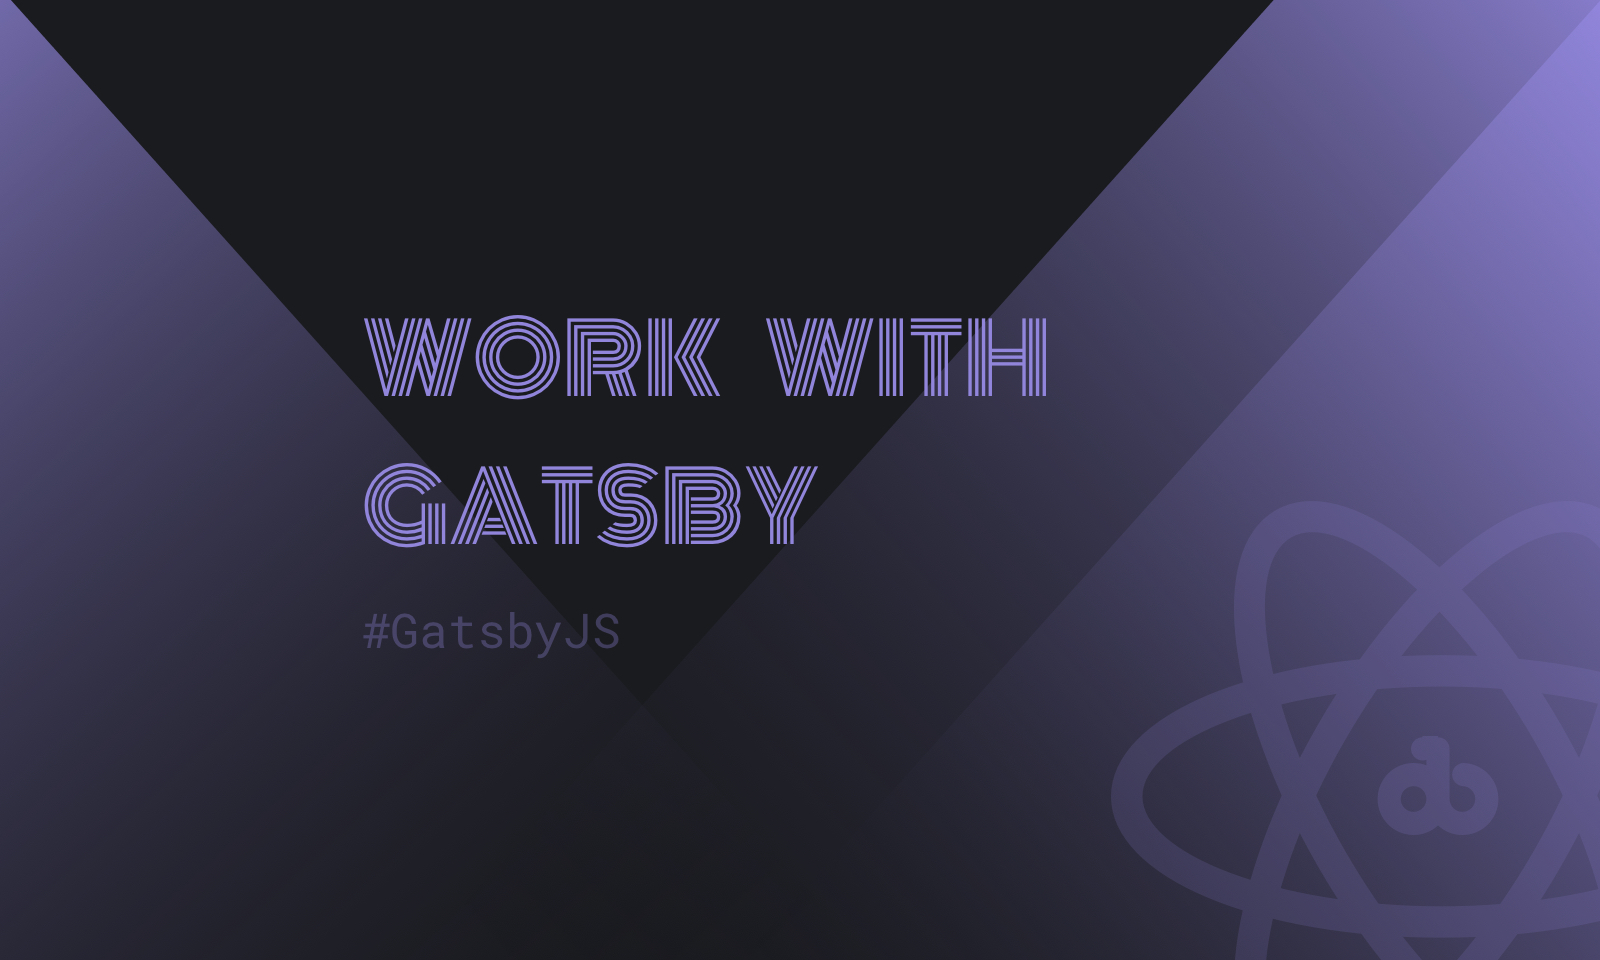
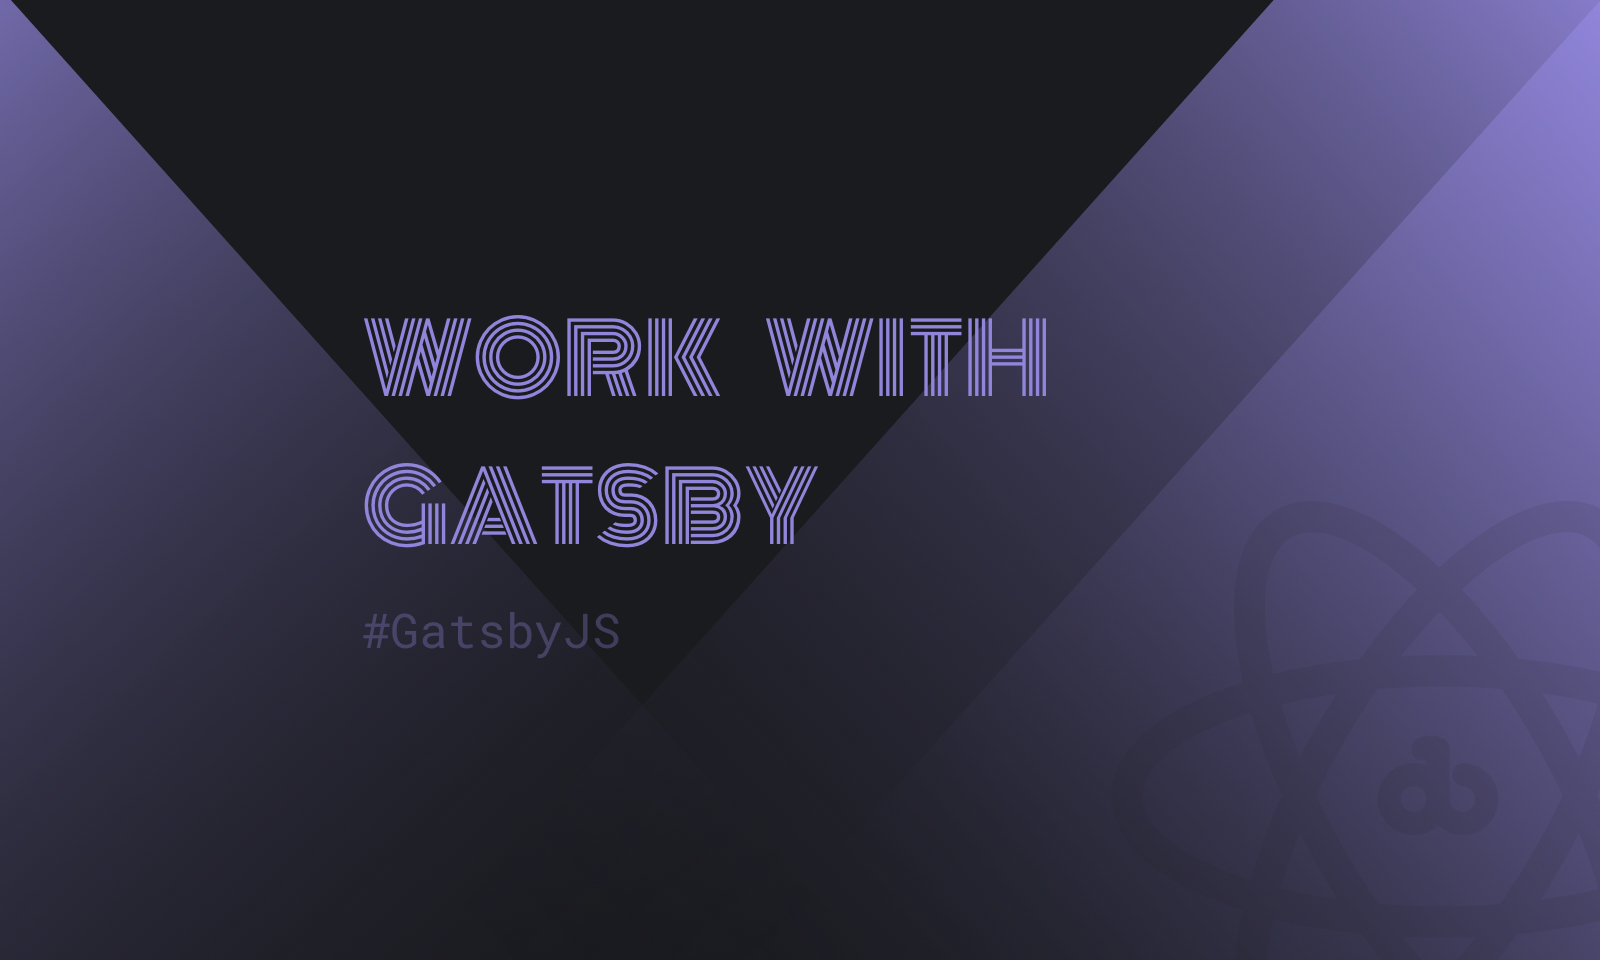
[ADD] New post - Keyword 'new' in JavaScript [UPDATE] Thumbnail of post 'Site is alive'

Changed region(s): [[0.6875, 0.5312, 1.0, 1.0]]

diff --git a/src/pages/posts/2018/08/2018-08-10-keword-new-in-javascript/index.md b/src/pages/posts/2018/08/2018-08-10-keword-new-in-javascript/index.md
@@ -4,37 +4,134 @@ date: 2018-08-10
 title: "Keyword 'new' in JavaScript"
 author: "Leo"
 thumbnail: "./thumbnail.jpg"
-published: false
+published: true
 type: "post"
 categories: ['Dev', 'Beginner Series']
 tags: ['JavaScript', 'New', 'Object']
-excerpt: "Prototype is a fundamental concept that every JavaScript developer must understand."
+excerpt: "In this post I'll show you what does the new keyword do."
 ---
 
-**JavaScript Prototype** is …
-
-Yeah, I know it is not that easy to understand, but as a JavaScript coder, you cannot ignore it. So let’s get this sh*t done together.
+In the [previous article](https://dezineleo.com/posts/2018/08/prototype-in-javascript), we've used keyword `new` to create new functions when we talked about the **prototype** in JavaScript. Today I gonna show you what's inside of keyword `new`.
 
 Here is a quick preview of the topics.
 
-- [What is JavaScript Prototype?](#what-is-javascript-prototype)
+- [What is the keyword "new" in JavaScript?](#what-is-the-keyword-%22new%22-in-javascript)
+- [What does the "new" do?](#what-does-the-%22new%22-do)
+- [Normal function call vs. new keyword](#normal-function-call-vs-new-keyword)
+- [Beware of references](#beware-of-references)
 - [Conclusion](#conclusion)
 - [Resources](#resources)
 
-## What is JavaScript Prototype?
+## What is the keyword "new" in JavaScript?
+
+As we all know, Object-Oriented Programming (OOP) is a programming paradigm based on the concept of "objects" which means data and functions (attributes and methods) are bundled within an object.
+
+Not like Java or PHP, the keyword `new` in JavaScript is just a [syntactic sugar](http://en.wikipedia.org/wiki/Syntactic_sugar).
+
+## What does the "new" do?
+
+The `new` operator is used to create an instance of an object which has a constructor function. And it will do four things when we use the `new` in JavaScript.
+
+1. It creates a new object.
+2. It sets this new object's `[[prototype]]` property to be the **constructor function**'s prototype object.
+3. It binds `this` to this object and executes the constructor function.
+4. It returns `this` or this object if there is no return statement in the function body.
+
+## Normal function call vs. new keyword
+
+For instance, let's create some functions to demostrate the whole process.
+
+```javascript
+function siteFn(name, url) {
+  const siteObj = {};
+
+  siteObj.name = name;
+  siteObj.url = url;
+
+  return siteObj;
+}
+
+const dezineleo = siteFn('Dezineleo', 'dezineleo.com');
+// ouput -> {name: "Dezineleo", url: "dezineleo.com"}
+```
+
+As you can see above, we create an object, add some properties to it and return it at the end. Then, let's create a new function by using `new` to do the same thing.
+
+```javascript
+function SiteConstructor(name, url) {
+  this.name = name;
+  this.url = url;
+}
+
+const dezineleo = new SiteConstructor('Dezineleo', 'dezineleo.com');
+// output -> SiteConstructor {name: "Dezineleo", url: "dezineleo.com"}
+```
+
+Now, we use less code to make the same result by using the prototype chain.
+
+Let's break it down by following the steps mentioned before.
+
+```javascript
+function SiteConstructor(name, url) {
+  // 1. It creates a new object.
+  // this = {}; 
+
+  // 2. It sets this new object's [[prototype]] property 
+  // to be the constructor function's prototype object.
+  // this.__proto__ = PersonConstructor.prototype;
+
+  // 3. It makes the `this` variable point to the newly created object and executes the constructor function.
+  
+  this.name = name;
+  this.url = url;
+
+  // 4. Returns this if there is no return statement in the function body.
+  // return this;
+}
+```
+
+What if we call a **non-constructor** with `new` ?
+
+```javascript
+let dezineleo = new siteFn('Dezineleo', 'dezineleo.com');
+// ouput -> {name: "Dezineleo", url: "dezineleo.com"}
+```
+
+Same results as before. The main difference is it returns the `siteObj` instead of `this`.
+
+## Beware of references
+
+Since the newly created object's `__protp__` is inherited from constructor function' prototype, you should be cautious about the properties.
+
+```javascript
+function SiteConstructor(name, url) {
+  this.name = name;
+  this.url = url;
+  this.views = [];
+  this.addViews = views => {
+    this.views.push(views);
+  }
+}
+
+const dezineleo = new SiteConstructor('Dezineleo', 'dezineleo.com');
+dezineleo.__proto__.getUserName = () => console.log('haha');
+console.log(dezineleo.getUserName());
+// output -> haha
+const google = new SiteConstructor('Google', 'google.com');
+console.log(google.getUserName());
+// output -> haha
+```
 
 ## Conclusion
 
+The `new` operator is relatively easy to use, but you need to understand what is going on inside.
+
+To recap, please remeber the [four things](#what-does-the-%22new%22-do) happens when we call `new` operator.
 
 ## Resources
-1. [JavaScript Prototype in Plain Language](http://javascriptissexy.com/javascript-prototype-in-plain-detailed-language/)
-2. [Object.prototype | MDN](https://developer.mozilla.org/en-US/docs/Web/JavaScript/Reference/Global_Objects/Object/prototype)
-3. [You Don’t Know JS: this & Object Prototypes](https://github.com/getify/You-Dont-Know-JS/tree/master/this%20%26%20object%20prototypes)
-4. [Understanding Prototypes and Inheritance in JavaScript](https://www.digitalocean.com/community/tutorials/understanding-prototypes-and-inheritance-in-javascript)
-5. [JS: attribute vs. property](http://lucybain.com/blog/2014/attribute-vs-property/)
-6. [Understanding Objects in JavaScript](https://www.digitalocean.com/community/tutorials/understanding-objects-in-javascript)
-7. [Javascript: Prototype vs Class](https://medium.com/@parsyval/javascript-prototype-vs-class-a7015d5473b)
-8. [The difficulties of JavaScript prototype](https://github.com/KieSun/Blog/issues/2)
+1. [Prototype in JavaScript](https://dezineleo.com/posts/2018/08/prototype-in-javascript)
+2. [New Operator | MDN](https://developer.mozilla.org/en-US/docs/Web/JavaScript/Reference/Operators/new)
+3. [Javascript’s “new” Keyword Explained as Simply as Possible](https://codeburst.io/javascripts-new-keyword-explained-as-simply-as-possible-fec0d87b2741)
 
 
 
